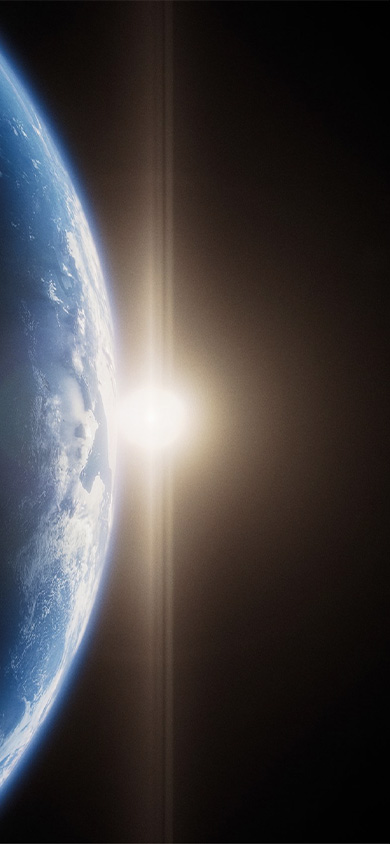
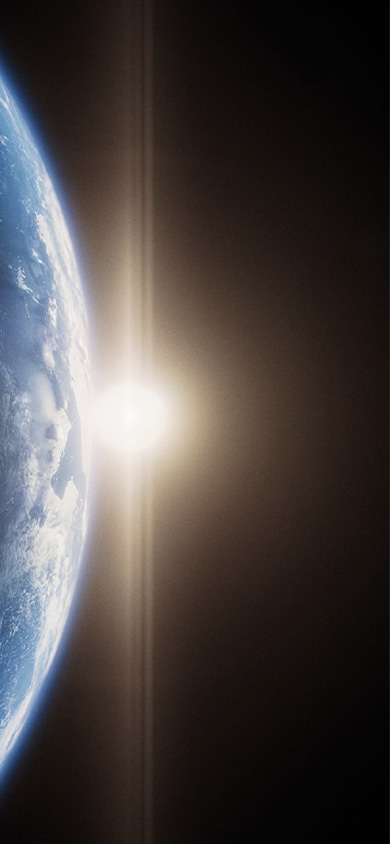
Add files via upload

Changed region(s): [[0.0, 0.0308, 0.6154, 0.955]]

diff --git a/wbe/style.css b/wbe/style.css
@@ -209,13 +209,11 @@
 
 .img{
     background-image: url("earth2av.jpg");
-    left: -3vw;
 }
 
 .img2{
 	background-image: url(earth2v.jpg);
 	top: -3vh;
-	left: -3vw;
 }
 
 .title{
@@ -227,57 +225,58 @@
 .date{
 	font-size: 4vw;
 	top: 25vh;
-	left: 43vw;
+	left: 39vw;
 
 }
 
 .date2{
+	width: 200px;
 	font-size: 4vw;
-	top: 28vh;
-	left: 43vw;
-	line-height: 3.5vh;
+	top: 27.7vh;
+	left: 39vw;
+	line-height: 2.7vh;
 }
 
 .free{
 	font-size: 3vw;
 	top: 59vh;
-	left: 43vw;
+	left: 39vw;
 }
 
 .adult{
 	font-size: 3vw;
-	top: 62vh;
-	left: 43vw;
+	top: 61.5vh;
+	left: 39vw;
 }
 
 .child{
 	font-size: 3vw;
-	top: 65.5vh;
-	left: 43vw;
+	top: 64vh;
+	left: 39vw;
 }
 
 .student{
 	font-size: 3vw;
-	top: 69vh;
-	left: 43vw;
+	top: 66.5vh;
+	left: 39vw;
 }
 
 .senior{
 	font-size: 3vw;
 	top: 72.5vh;
-	left: 43vw;
+	left: 39vw;
 }
 
 .address{
 	font-size: 2vw;
 	top: 84vh;
-	left: 43vw;
+	left: 39vw;
 }
 
 .address2{
 	font-size: 2vw;
-	top: 87vh;
-	left: 43vw;
+	top: 86.5vh;
+	left: 39vw;
 }
 
 .earth{

diff --git a/wbe/index.html b/wbe/index.html
@@ -18,11 +18,11 @@
 		Starting March 24, 2021
 	</p>
 
-	<p class="date2">Wednesday-Sunday 10am-5:30pm</p>
+	<p class="date2">Wednesday&#8211;Sunday 10am&#8211;5:30pm</p>
 
 	<p class="free">Free for Members</p>
 	<p class="adult">Adult $28</p>
-	<p class="child"> Child (3-12) $16.50</p>
+	<p class="child"> Child (3&#8211;12) $16.50</p>
 	<p class="student"> Student/Senior $22.50</p>
 	<p class="senior"> </p>
 
